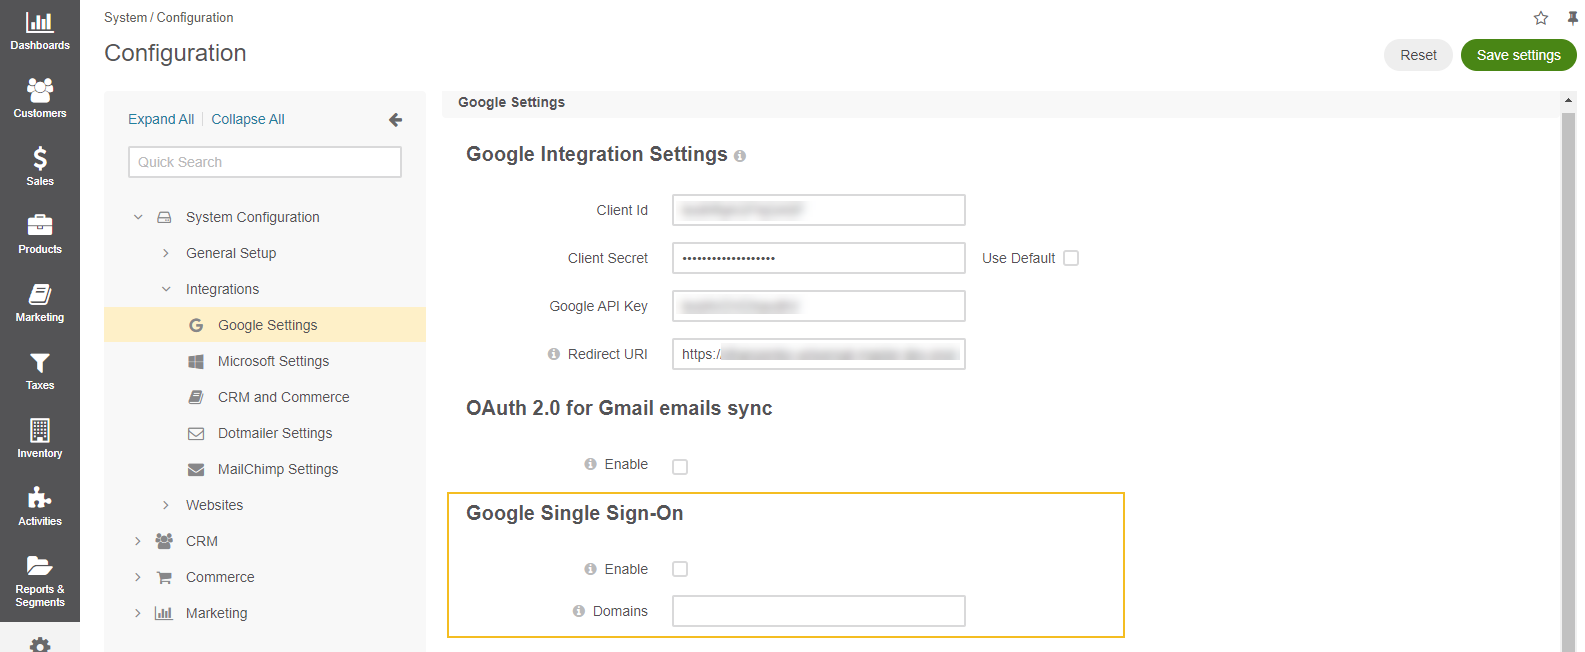
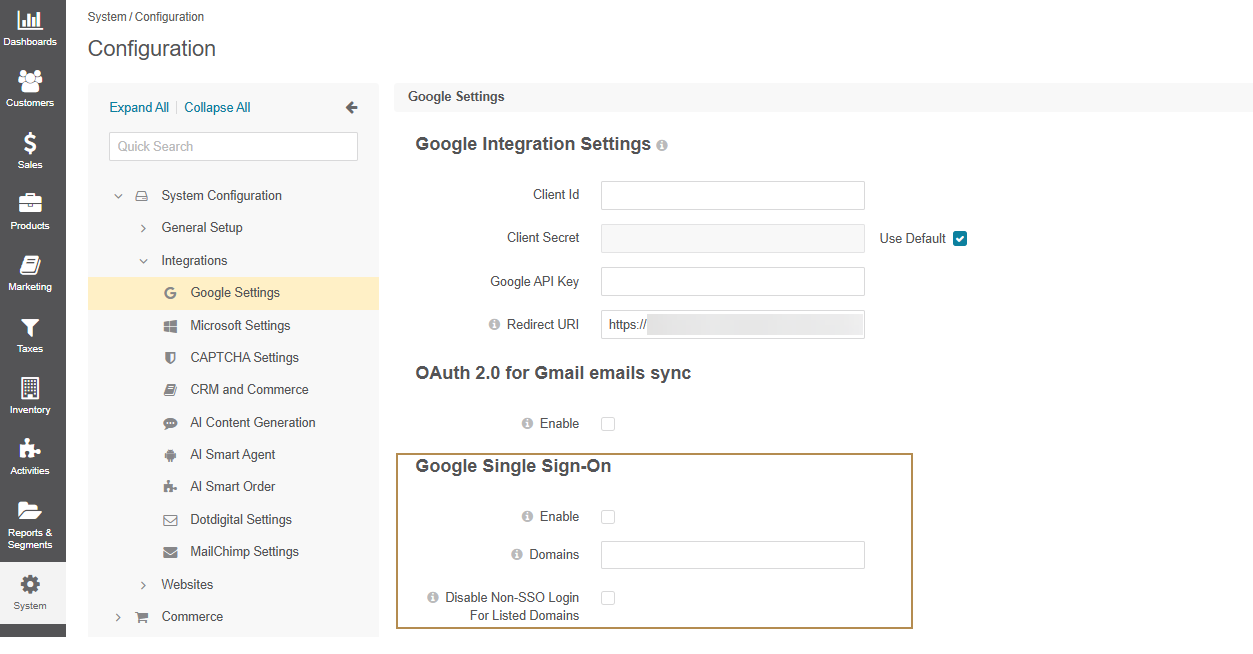
BB-24881: SSO-Only Logins (#41573)

diff --git a/user/back-office/system/configuration/system/integrations/google-settings/google-single-sign-on.rst b/user/back-office/system/configuration/system/integrations/google-settings/google-single-sign-on.rst
@@ -93,10 +93,11 @@ To configure the integration with Google Single Sign-On in your Oro application:
 
 1. Navigate to **System > Configuration > Integrations > Google Settings** in the main menu.
 2. Make sure that the information in the **Google Integration Settings** and **OAuth 2.0 for Gmail emails sync** is filled as described in the :ref:`Configure Google Integration Settings <system-configuration-integrations-google>` topic.
-3. Define the following fields for **Google Sign-on:**
+3. Define the following fields for **Google Sign-On:**
 
    * **Enable** --- Check **Enable** to activate Google Single Sign-on.
-   * **Domains** --- Domains is a comma separated list of allowed domains. It limits the list of mailboxes for which single sign-on can be used (e.g., only a domain used specifically by your company). Leave the field empty to set no such limitation
+   * **Domains** --- Enter a comma-separated list of email domains allowed to use Google SSO (e.g., domains associated with your company). It limits Google SSO access to users with email addresses matching these domains. Leave the field empty to allow any domain.
+   * **Disable Non-SSO Login for Listed Domains** (available as of OroCommerce version 6.0.7) --- When enabled, users with email addresses matching the domains specified in the *Domains* field will be required to sign in using **Google SSO only**. Username and password login will be restricted for these users.
 
 
 .. image:: /user/img/system/config_system/google_integration_new.png

diff --git a/user/back-office/system/configuration/system/integrations/microsoft-settings/microsoft-single-sign-on.rst b/user/back-office/system/configuration/system/integrations/microsoft-settings/microsoft-single-sign-on.rst
@@ -21,7 +21,8 @@ To configure the Single Sign-On with Microsoft 365 in your Oro application:
 3. Define the following fields for **Microsoft 365 Single Sign-on**:
 
    * **Enable** --- Select the checkbox to enable the Single Sign-On setting.
-   * **Domains** --- A comma-separated list of allowed domains. It limits the list of application domains for which single sign-on can be used. Leave the field empty to set *No* for such limitation.
+   * **Domains** --- Enter a comma-separated list of email domains allowed to use Microsoft 365 SSO (e.g., domains associated with your company). It limits Microsoft 365 SSO access to users with email addresses matching these domains. Leave the field empty to allow any domain.
+   * **Disable Non-SSO Login for Listed Domains** (available as of OroCommerce version 6.0.7) --- When enabled, users with email addresses matching the domains specified in the *Domains* field will be required to sign in using **Microsoft 365 SSO only**. Username and password login will be restricted for these users.
    * **Redirect URI** --- **READ-ONLY** field, the value is auto-generated and should be added in Azure Application Redirect URIs configuration.
 
 
